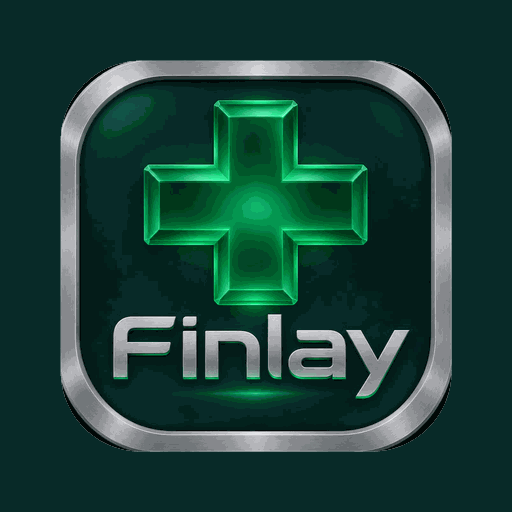
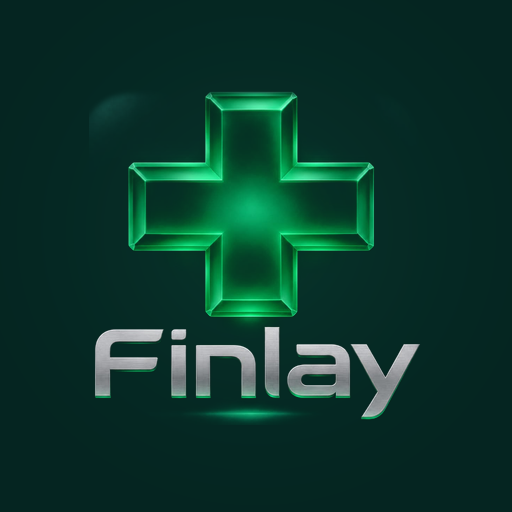
Ícono adaptable de Android: se ve completo con la forma del teléfono
En Android 8+ el ícono viejo se encogía dentro de un círculo blanco. Ahora el APK trae
res/drawable-anydpi-v26/icono.xml (<adaptive-icon>) con dos capas: el fondo verde oscuro
del logo y la cruz con 'Finlay' dentro de la zona segura (herramientas/icono_adaptable.py).
También se rehízo el ícono 'maskable' de la versión web.

Claude-Session: https://claude.ai/code/session_01KWCEMU41obyjq15dfE3xRy

Changed region(s): [[0.0938, 0.0938, 0.9062, 0.9062]]

diff --git a/docs/js/app.js b/docs/js/app.js
@@ -719,7 +719,7 @@ async function vistaAjustes() {
     <h2>Información</h2>
     <div class="tarjeta menu-lista">
       <details class="menu-fila acerca"><summary>${ico("info")}<span>Acerca de Finlay</span>${ico("chevron", "flecha-der")}</summary>
-        <p>Finlay · Estudio médico · versión 2.1 · ${docs.length} materiales${espacio}.</p>
+        <p>Finlay · Estudio médico · versión 2.1.1 · ${docs.length} materiales${espacio}.</p>
         <p>Hecha para estudiantes de Medicina en Cuba, en honor a Carlos J. Finlay (1833–1915), el médico cubano que descubrió que el mosquito transmite la fiebre amarilla.</p></details>
       <details class="menu-fila acerca"><summary>${ico("examen")}<span>Términos de uso</span>${ico("chevron", "flecha-der")}</summary>
         <p>Finlay es gratis y funciona sin internet. Las respuestas salen solo de las conferencias y libros cargados, con su página o diapositiva. Tus datos se quedan en tu teléfono: Finlay no los envía a ningún lado.</p></details>

diff --git a/docs/sw.js b/docs/sw.js
@@ -1,6 +1,6 @@
 // Permite abrir Finlay sin conexión y ahorra datos: los archivos se guardan en el teléfono.
 
-const VERSION = "finlay-v30";
+const VERSION = "finlay-v31";
 const BASICOS = [
   "./",
   "index.html",

diff --git a/herramientas/construir_apk.py b/herramientas/construir_apk.py
@@ -34,11 +34,13 @@ ATTR = {
     "exported": 0x01010010, "authorities": 0x01010018, "grantUriPermissions": 0x0101001B,
     "configChanges": 0x0101001F, "minSdkVersion": 0x0101020C, "versionCode": 0x0101021B,
     "versionName": 0x0101021C, "windowSoftInputMode": 0x0101022B, "targetSdkVersion": 0x01010270,
-    "allowBackup": 0x01010280, "hardwareAccelerated": 0x010102D3,
+    "allowBackup": 0x01010280, "hardwareAccelerated": 0x010102D3, "drawable": 0x01010199,
 }
 NS_ANDROID = "http://schemas.android.com/apk/res/android"
 TEMA = 0x01030241          # @android:style/Theme.Material.Light.NoActionBar
 ICONO = 0x7F010000         # @drawable/icono (lo define resources.arsc)
+ICONO_FONDO = 0x7F010001   # @drawable/icono_fondo  (capa de fondo del ícono adaptable)
+ICONO_FRENTE = 0x7F010002  # @drawable/icono_frente (capa del dibujo del ícono adaptable)
 
 # Tipos de valor (Res_value)
 T_REF, T_STR, T_DEC, T_HEX, T_BOOL = 0x01, 0x03, 0x10, 0x11, 0x12
@@ -180,24 +182,60 @@ def manifiesto(version_code, version_name):
 
 
 # ---------------------------------------------------------------- resources.arsc
-def arsc(ruta_icono):
-    valores = pool_cadenas([ruta_icono])
+def icono_adaptable():
+    """XML binario de <adaptive-icon>: Android 8+ recorta el ícono con la forma del teléfono."""
+    return axml(Elemento("adaptive-icon", [], [
+        Elemento("background", [a("drawable", T_REF, ICONO_FONDO)]),
+        Elemento("foreground", [a("drawable", T_REF, ICONO_FRENTE)]),
+    ]))
+
+
+def arsc():
+    """resources.arsc con tres imágenes (tipo drawable):
+    icono        → res/drawable/icono.png (Android 5 a 7) y res/drawable-anydpi-v26/icono.xml (Android 8+)
+    icono_fondo  → res/drawable/icono_fondo.png
+    icono_frente → res/drawable/icono_frente.png
+    """
+    rutas = ["res/drawable/icono.png", "res/drawable/icono_fondo.png", "res/drawable/icono_frente.png",
+             "res/drawable-anydpi-v26/icono.xml"]
+    valores = pool_cadenas(rutas)
     tipos = pool_cadenas(["drawable"])
-    claves = pool_cadenas(["icono"])
-    spec = struct.pack("<HHIBBHI", 0x0202, 16, 16 + 4, 1, 0, 0, 1) + struct.pack("<I", 0)
-    config = struct.pack("<I", 64) + b"\x00" * 60
-    cab_tipo = 8 + 1 + 1 + 2 + 4 + 4 + len(config)
-    entradas_inicio = cab_tipo + 4
-    entrada = struct.pack("<HHI", 8, 0, 0) + struct.pack("<HBBI", 8, 0, T_STR, 0)
-    tipo = struct.pack("<HHIBBHII", 0x0201, cab_tipo, entradas_inicio + len(entrada), 1, 0, 0, 1, entradas_inicio) + \
-        config + struct.pack("<I", 0) + entrada
+    nombres = ["icono", "icono_fondo", "icono_frente"]
+    claves = pool_cadenas(nombres)
+    n = len(nombres)
+    # Spec: la entrada 0 cambia según la versión de Android (CONFIG_VERSION) y la densidad
+    spec = struct.pack("<HHIBBHI", 0x0202, 16, 16 + 4 * n, 1, 0, 0, n) + struct.pack("<III", 0x0400 | 0x0100, 0, 0)
+
+    def config(densidad=0, sdk=0):
+        c = bytearray(64)
+        struct.pack_into("<I", c, 0, 64)
+        struct.pack_into("<H", c, 14, densidad)     # density
+        struct.pack_into("<H", c, 24, sdk)          # sdkVersion
+        return bytes(c)
+
+    def chunk_tipo(cfg, valores_por_entrada):
+        cab = 8 + 1 + 1 + 2 + 4 + 4 + len(cfg)
+        offsets, datos = [], b""
+        for v in valores_por_entrada:
+            if v is None:
+                offsets.append(0xFFFFFFFF)
+                continue
+            k, idx_valor = v
+            offsets.append(len(datos))
+            datos += struct.pack("<HHI", 8, 0, k) + struct.pack("<HBBI", 8, 0, T_STR, idx_valor)
+        inicio = cab + 4 * len(offsets)
+        return struct.pack("<HHIBBHII", 0x0201, cab, inicio + len(datos), 1, 0, 0, len(offsets), inicio) + \
+            cfg + b"".join(struct.pack("<I", o) for o in offsets) + datos
+
+    por_defecto = chunk_tipo(config(), [(0, 0), (1, 1), (2, 2)])
+    android8 = chunk_tipo(config(densidad=0xFFFE, sdk=26), [(0, 3), None, None])   # drawable-anydpi-v26
     nombre = PAQUETE.encode("utf-16-le").ljust(256, b"\x00")
     cab_paq = 288
     off_tipos = cab_paq
     off_claves = off_tipos + len(tipos)
-    cuerpo = tipos + claves + spec + tipo
+    cuerpo = tipos + claves + spec + por_defecto + android8
     paquete = struct.pack("<HHII", 0x0200, cab_paq, cab_paq + len(cuerpo), 0x7F) + nombre + \
-        struct.pack("<IIIII", off_tipos, 1, off_claves, 1, 0) + cuerpo
+        struct.pack("<IIIII", off_tipos, 1, off_claves, n, 0) + cuerpo
     total = 12 + len(valores) + len(paquete)
     return struct.pack("<HHII", 0x0002, 12, total, 1) + valores + paquete
 
@@ -276,8 +314,12 @@ def main():
     sin_firmar = tmp / "sin-firmar.apk"
     with zipfile.ZipFile(sin_firmar, "w", zipfile.ZIP_DEFLATED) as z:
         z.writestr("AndroidManifest.xml", axml(manifiesto(args.version_code, args.version_name)))
-        z.writestr(zipfile.ZipInfo("resources.arsc"), arsc("res/drawable/icono.png"), compress_type=zipfile.ZIP_STORED)
+        z.writestr(zipfile.ZipInfo("resources.arsc"), arsc(), compress_type=zipfile.ZIP_STORED)
         z.write(RAIZ / "docs" / "iconos" / "icono-192.png", "res/drawable/icono.png", compress_type=zipfile.ZIP_STORED)
+        # Ícono adaptable (Android 8+): fondo + dibujo, que el teléfono recorta con su forma
+        z.write(RAIZ / "android" / "res" / "icono_fondo.png", "res/drawable/icono_fondo.png", compress_type=zipfile.ZIP_STORED)
+        z.write(RAIZ / "android" / "res" / "icono_frente.png", "res/drawable/icono_frente.png", compress_type=zipfile.ZIP_STORED)
+        z.writestr("res/drawable-anydpi-v26/icono.xml", icono_adaptable())
         z.write(dex, "classes.dex")
         for f in sorted((RAIZ / "docs").rglob("*")):
             if f.is_file():

diff --git a/herramientas/icono_adaptable.py b/herramientas/icono_adaptable.py
@@ -1,0 +1,90 @@
+"""Crea las capas del ícono adaptable de Android (fondo + dibujo) a partir del logo de Finlay.
+
+Android 8 y posteriores recortan el ícono con la forma del teléfono (círculo, cuadrado redondeado…).
+Si el ícono no es adaptable, lo encogen y le ponen un fondo blanco. Con dos capas de 108 dp:
+  - fondo: el verde oscuro del logo, que llena toda la forma;
+  - frente: la cruz y la palabra "Finlay", dentro de la zona segura del centro (66 dp).
+
+Uso:  python herramientas/icono_adaptable.py LOGO.jpg
+Salida: android/res/icono_fondo.png, android/res/icono_frente.png (432 px = 108 dp a 4x)
+        y docs/iconos/icono-maskable-512.png (para la versión web).
+"""
+import sys
+from pathlib import Path
+
+import numpy as np
+from PIL import Image, ImageDraw, ImageFilter
+
+RAIZ = Path(__file__).resolve().parent.parent
+LADO = 432               # 108 dp × 4
+CONTENIDO = 0.47         # el dibujo ocupa el 47 % del lado: cabe entero incluso en un círculo
+
+logo = Image.open(sys.argv[1]).convert("RGB")
+W = logo.width
+# Interior del marco plateado y caja del dibujo (cruz + texto), en proporción al logo original
+interior = logo.crop((int(W * .10), int(W * .10), int(W * .90), int(W * .90)))
+caja = (int(W * .13), int(W * .10), int(W * .89), int(W * .87))
+
+# ---- Color de fondo: el verde oscuro del interior del logo
+arr = np.array(interior).astype(float)
+borde = np.concatenate([arr[:20].reshape(-1, 3), arr[-20:].reshape(-1, 3), arr[:, :20].reshape(-1, 3), arr[:, -20:].reshape(-1, 3)])
+color = tuple(int(x) for x in np.median(borde, axis=0))
+
+
+def fondo_degradado(lado):
+    """Verde oscuro con un brillo suave en el centro (como el logo)."""
+    y, x = np.mgrid[0:lado, 0:lado]
+    d = np.sqrt((x - lado / 2) ** 2 + (y - lado * .45) ** 2) / (lado * .7)
+    luz = np.clip(1 - d, 0, 1) ** 2 * 0.22
+    base = np.array(color, float)
+    brillo = np.array([20, 120, 90], float)
+    img = base[None, None, :] * (1 - luz[..., None]) + brillo[None, None, :] * luz[..., None]
+    return Image.fromarray(np.clip(img, 0, 255).astype("uint8"))
+
+
+def frente(lado, proporcion):
+    """La cruz y el texto, recortados del logo, con bordes suaves para fundirse con el fondo."""
+    dibujo = logo.crop(caja)
+    escala = lado * proporcion / max(dibujo.size)
+    dibujo = dibujo.resize((round(dibujo.width * escala), round(dibujo.height * escala)), Image.LANCZOS)
+    # transparencia según el brillo: el fondo oscuro desaparece, la cruz, el texto y su brillo quedan
+    a = np.array(dibujo).astype(float)
+    luz = a.max(axis=2) - np.array(color, float).max()
+    alfa = np.clip(luz / 70, 0, 1) * 255
+    # quitar cualquier resto del marco plateado: solo vale lo que está dentro del interior redondeado
+    mascara = Image.new("L", logo.size, 0)
+    ImageDraw.Draw(mascara).rounded_rectangle((int(W * .115), int(W * .115), int(W * .885), int(W * .885)), int(W * .11), fill=255)
+    mascara = mascara.filter(ImageFilter.GaussianBlur(W * .006)).crop(caja).resize(dibujo.size)
+    alfa = alfa * (np.array(mascara).astype(float) / 255)
+    capa = dibujo.convert("RGBA")
+    capa.putalpha(Image.fromarray(alfa.astype("uint8")).filter(ImageFilter.GaussianBlur(0.6)))
+    lienzo = Image.new("RGBA", (lado, lado), (0, 0, 0, 0))
+    lienzo.alpha_composite(capa, ((lado - capa.width) // 2, (lado - capa.height) // 2))
+    return lienzo
+
+
+salida = RAIZ / "android" / "res"
+salida.mkdir(parents=True, exist_ok=True)
+fondo_degradado(LADO).save(salida / "icono_fondo.png", optimize=True)
+frente(LADO, CONTENIDO).save(salida / "icono_frente.png", optimize=True)
+
+# Versión web "maskable" (zona segura del 80 %): fondo + dibujo juntos
+web = fondo_degradado(512).convert("RGBA")
+web.alpha_composite(frente(512, 0.66))
+web.convert("RGB").save(RAIZ / "docs" / "iconos" / "icono-maskable-512.png", optimize=True)
+
+# Vista previa con varias formas de recorte (para revisar a ojo)
+prev = Image.new("RGB", (4 * 230, 230), "white")
+f = fondo_degradado(LADO).convert("RGBA")
+f.alpha_composite(frente(LADO, CONTENIDO))
+visible = f.crop((int(LADO * 18 / 108), int(LADO * 18 / 108), int(LADO * 90 / 108), int(LADO * 90 / 108))).resize((200, 200))
+for k, forma in enumerate(["circulo", "redondeado", "gota", "cuadrado"]):
+    m = Image.new("L", (200, 200), 0)
+    d = ImageDraw.Draw(m)
+    if forma == "circulo": d.ellipse((0, 0, 199, 199), fill=255)
+    elif forma == "redondeado": d.rounded_rectangle((0, 0, 199, 199), 46, fill=255)
+    elif forma == "gota": d.rounded_rectangle((0, 0, 199, 199), 100, fill=255); d.rectangle((100, 100, 199, 199), fill=255)
+    else: d.rounded_rectangle((0, 0, 199, 199), 16, fill=255)
+    prev.paste(visible.convert("RGB"), (k * 230 + 15, 15), m)
+prev.save(salida.parent / "vista-icono.png")
+print("Listo:", color)
